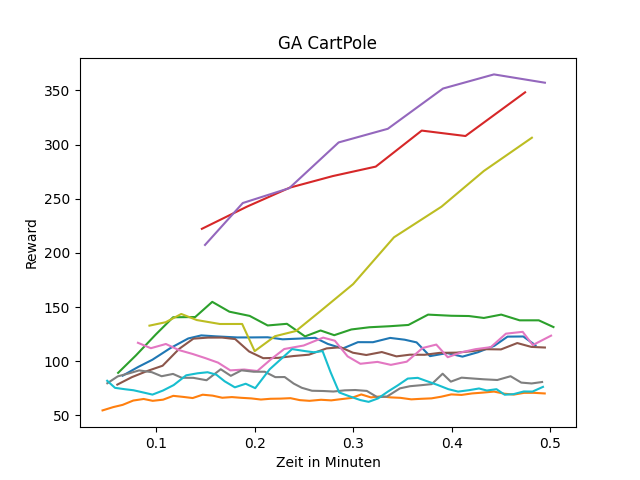
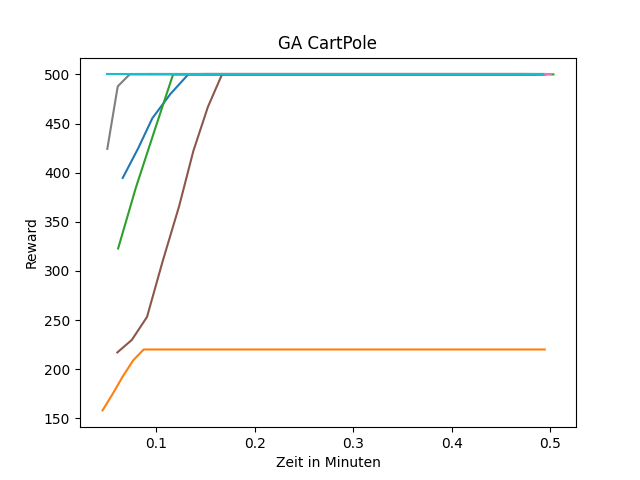
correcting data_vis.py and uploading graphs

diff --git a/data_vis.py b/data_vis.py
@@ -55,7 +55,7 @@ if __name__ == '__main__':
             for i in range(10):
                 y = datay[i]
                 x = datax[i]
-                yhat = moving_avg(y, 5)
+                yhat = moving_avg(y, 1)
                 plt.plot(x[-len(yhat):], yhat)
             plt.xlabel('Zeit in Minuten')
             plt.ylabel('Reward')
